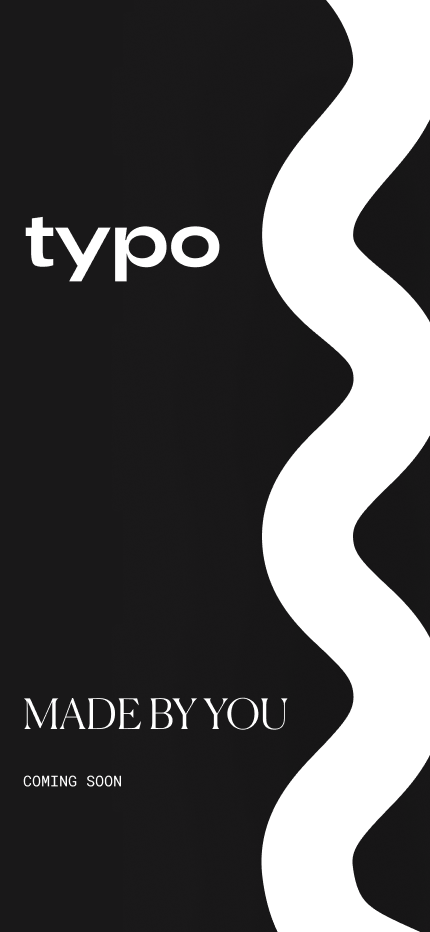
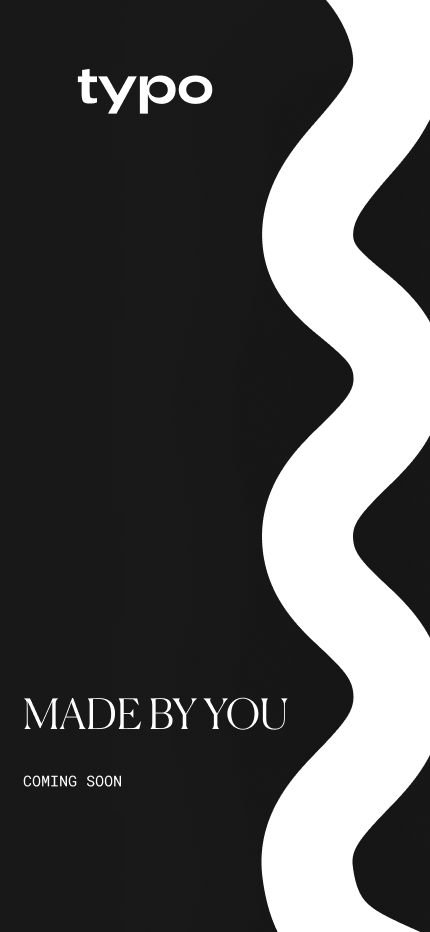
Add files via upload

Changed region(s): [[0.0605, 0.2178, 0.514, 0.3112], [0.1814, 0.0622, 0.514, 0.1245]]

diff --git a/index.html b/index.html
@@ -19,10 +19,6 @@
             overflow: none;
         }
 
-        .image {
-            /* Add any additional styling for the image if needed */
-        }
-
         h1 {
             color: white;
             text-align: center;
@@ -42,15 +38,10 @@
             align-items: center;
             height: 100vh;
             overflow: none;
-        }
+           }
 
             }
 
-
-            h1 {
-                font-size: 24px; /* Adjust font size for smaller screens */
-            }
-        }
     </style>
 </head>
 
